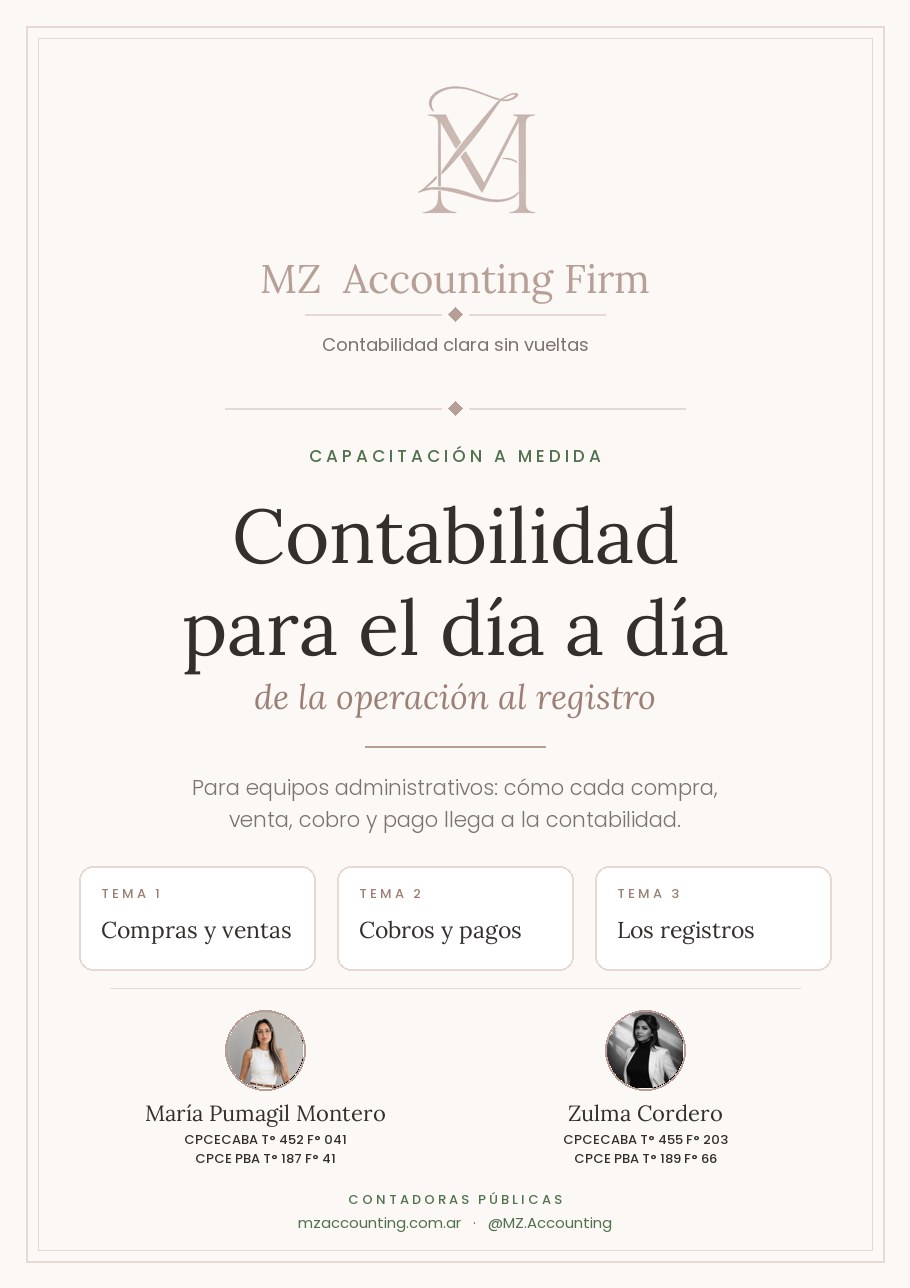
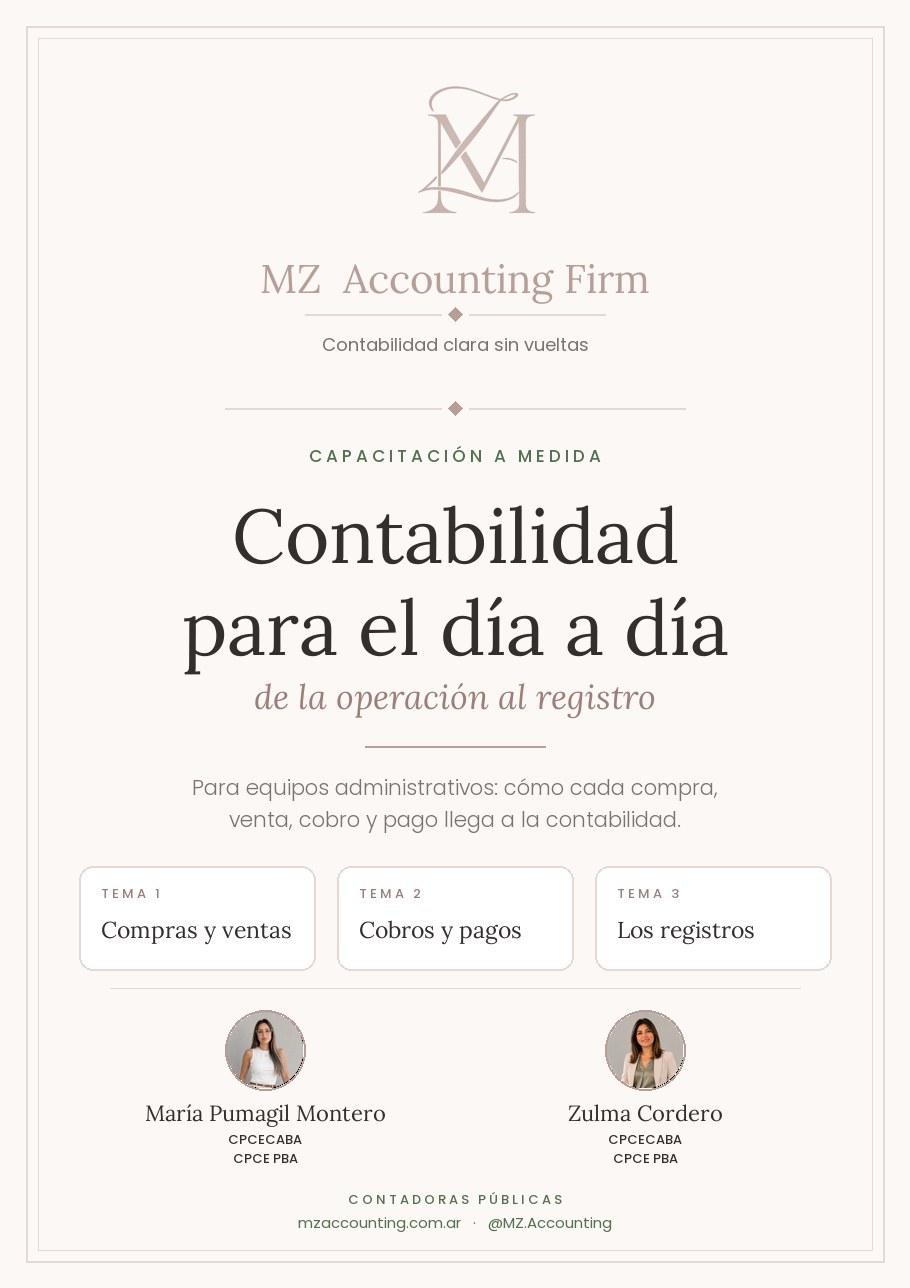
Sin números de matrícula y foto nueva de Zulma

Changed region(s): [[0.6154, 0.7764, 0.8, 0.9006], [0.2154, 0.8696, 0.3692, 0.9006]]

diff --git a/index.html b/index.html
@@ -47,7 +47,7 @@
 <main id="contenido">
 <section id="inicio" class="hero wrap">
   <div class="hero-copy"><p class="eyebrow">CONTADORAS PÚBLICAS · MATRICULADAS EN CABA Y PBA</p><h1>Contabilidad<br>e impuestos.<br><em class="rota">Para <span class="rota-palabra" data-palabras="monotributistas|freelancers|tiendas online|empresas">monotributistas</span>.</em></h1><p class="hero-benefit">Ordenamos tu situación fiscal para que no pagues de más.</p><div class="actions"><a class="button dark" href="https://wa.me/5491172377011?text=Hola%2C%20quiero%20hacer%20una%20consulta%20al%20estudio." target="_blank" rel="noopener noreferrer"><svg width="16" height="16" viewBox="0 0 24 24" fill="none" stroke="currentColor" stroke-width="1.8" stroke-linecap="round" stroke-linejoin="round" aria-hidden="true"><path d="M3.5 20.5l1.3-4.2A8.5 8.5 0 1 1 8 19.4z"/><path d="M9 9.5c.3 1.8 1.7 3.6 3.7 4.6l1.2-1.1 2 .9-.3 1.6c-3.4.4-7.6-3.3-7.9-6.9l1.6-.4.9 2z"/></svg> Escribinos por WhatsApp <span aria-hidden="true">↗</span></a><a class="text-link" href="#servicios">Conocé nuestros servicios <span aria-hidden="true">↗</span></a></div></div>
-  <div class="hero-visual"><div class="portrait-pair"><figure class="portrait maru"><img src="ed-maru.jpg" alt="María Pumagil Montero, contadora de MZ Accounting Firm" width="900" height="1200" fetchpriority="high"><figcaption><span>María Pumagil Montero</span><small>Análisis fiscal & negocios digitales</small><small class="matricula">CPCECABA T° 452 F° 041<br>CPCE PBA T° 187 F° 41</small></figcaption></figure><figure class="portrait zulma"><img src="ed-zulma.jpg" alt="Zulma Cordero, contadora de MZ Accounting Firm" width="900" height="1200" fetchpriority="high"><figcaption><span>Zulma Cordero</span><small>Contabilidad & formación</small><small class="matricula">CPCECABA T° 455 F° 203<br>CPCE PBA T° 189 F° 66</small></figcaption></figure></div></div>
+  <div class="hero-visual"><div class="portrait-pair"><figure class="portrait maru"><img src="ed-maru.jpg" alt="María Pumagil Montero, contadora de MZ Accounting Firm" width="900" height="1200" fetchpriority="high"><figcaption><span>María Pumagil Montero</span><small>Análisis fiscal & negocios digitales</small><small class="matricula">CPCECABA<br>CPCE PBA</small></figcaption></figure><figure class="portrait zulma"><img src="ed-zulma.jpg" alt="Zulma Cordero, contadora de MZ Accounting Firm" width="900" height="1200" fetchpriority="high"><figcaption><span>Zulma Cordero</span><small>Contabilidad & formación</small><small class="matricula">CPCECABA<br>CPCE PBA</small></figcaption></figure></div></div>
 </section>
 <div class="practice-strip wrap" aria-label="Áreas del estudio"><span>Impuestos</span><span>Contabilidad & balances</span><span>Auditorías</span><span>Formación</span></div>
 
@@ -175,8 +175,8 @@
 </section>
 
 <section id="agenda" class="advisors section"><div class="wrap"><div class="section-head"><div><p class="eyebrow">04 / ASESORÍAS</p><h2>Una reunión.<br><em>Tu situación, en contexto.</em></h2></div><p>Contanos qué necesitás resolver y coordiná una reunión con el estudio. Revisá los horarios y las condiciones directamente en nuestra agenda.</p></div><div class="advisor-grid">
-  <article class="advisor"><img src="ed-maru.jpg" alt="María Pumagil Montero" width="900" height="1200" loading="lazy"><div class="advisor-copy"><p class="eyebrow">CONTADORA PÚBLICA</p><h3>María Pumagil Montero</h3><p class="advisor-mat">CPCECABA T° 452 F° 041<br>CPCE PBA T° 187 F° 41</p><p class="advisor-specialty">Análisis de impuestos y negocios digitales.</p><p>Análisis de impuestos, ecommerce, Ganancias, Convenio Multilateral, auditorías e informes fiscales.</p></div></article>
-  <article class="advisor"><img src="ed-zulma.jpg" alt="Zulma Cordero" width="900" height="1200" loading="lazy"><div class="advisor-copy"><p class="eyebrow">CONTADORA PÚBLICA</p><h3>Zulma Cordero</h3><p class="advisor-mat">CPCECABA T° 455 F° 203<br>CPCE PBA T° 189 F° 66</p><p class="advisor-specialty">Contabilidad, balances y formación.</p><p>Balances, coaching, asesoramiento contable, auditorías administrativas y cursos.</p></div></article>
+  <article class="advisor"><img src="ed-maru.jpg" alt="María Pumagil Montero" width="900" height="1200" loading="lazy"><div class="advisor-copy"><p class="eyebrow">CONTADORA PÚBLICA</p><h3>María Pumagil Montero</h3><p class="advisor-mat">CPCECABA<br>CPCE PBA</p><p class="advisor-specialty">Análisis de impuestos y negocios digitales.</p><p>Análisis de impuestos, ecommerce, Ganancias, Convenio Multilateral, auditorías e informes fiscales.</p></div></article>
+  <article class="advisor"><img src="ed-zulma.jpg" alt="Zulma Cordero" width="900" height="1200" loading="lazy"><div class="advisor-copy"><p class="eyebrow">CONTADORA PÚBLICA</p><h3>Zulma Cordero</h3><p class="advisor-mat">CPCECABA<br>CPCE PBA</p><p class="advisor-specialty">Contabilidad, balances y formación.</p><p>Balances, coaching, asesoramiento contable, auditorías administrativas y cursos.</p></div></article>
   </div><div class="shared-booking"><div><p class="eyebrow">ASESORÍA ONLINE</p><p>Un mismo espacio para conversar con MZ.</p></div><a class="button dark" href="https://turnito.app/p/5445c8qkn2pt237j" target="_blank" rel="noopener noreferrer">Agenda con nosotras <span aria-hidden="true">↗</span></a></div></div></section>
 
 <section class="wrap section faq"><div><p class="eyebrow">ANTES DE ESCRIBIRNOS</p><h2>Algunas respuestas<br><em>para empezar.</em></h2></div><div><details><summary>¿Puedo contratar una consulta puntual?<span aria-hidden="true">+</span></summary><p>Sí. Podés reservar una asesoría para conversar sobre tu situación o escribirnos para consultar por un trabajo concreto. También podemos evaluar un acompañamiento continuo.</p></details><details><summary>¿Atienden fuera de Buenos Aires?<span aria-hidden="true">+</span></summary><p>La atención es online. Contanos dónde desarrollás tu actividad y qué necesitás para evaluar el alcance del servicio.</p></details><details><summary>¿Cómo consulto por una guía o un curso?<span aria-hidden="true">+</span></summary><p>Entrá a Cursos: cada curso tiene su página con el temario y el precio. Lo comprás con Mercado Pago y te llega al mail. Para las capacitaciones a medida, escribinos.</p></details><details><summary>¿Qué necesito para pedir un presupuesto?<span aria-hidden="true">+</span></summary><p>Contanos tu actividad y el tema que querés resolver. A partir de eso te indicamos qué información o documentación hace falta revisar.</p></details></div></section>

diff --git a/academy.html b/academy.html
@@ -485,8 +485,8 @@
       <h2 class="sec-h2" style="font-size:38px">Lo que explicamos en los cursos es lo que hacemos todos los días en el estudio.</h2>
     </div>
     <div class="row">
-      <div class="autora"><img src="maria.png" alt="María Pumagil Montero"><div><h3>María Pumagil Montero</h3><p>Contadora pública · Impuestos, monotributo y ecommerce</p><small>CPCECABA T° 452 F° 041 · CPCE PBA T° 187 F° 41</small></div></div>
-      <div class="autora"><img src="zulma.png" alt="Zulma Cordero"><div><h3>Zulma Cordero</h3><p>Contadora pública · Balances, auditoría y capacitación</p><small>CPCECABA T° 455 F° 203 · CPCE PBA T° 189 F° 66</small></div></div>
+      <div class="autora"><img src="maria.png" alt="María Pumagil Montero"><div><h3>María Pumagil Montero</h3><p>Contadora pública · Impuestos, monotributo y ecommerce</p><small>CPCECABA · CPCE PBA</small></div></div>
+      <div class="autora"><img src="zulma.png" alt="Zulma Cordero"><div><h3>Zulma Cordero</h3><p>Contadora pública · Balances, auditoría y capacitación</p><small>CPCECABA · CPCE PBA</small></div></div>
     </div>
   </div>
 </section>

diff --git a/curso-facturador.html b/curso-facturador.html
@@ -124,8 +124,8 @@
     <div class="para"><h3 style="font-size:24px">No es para vos si…</h3><ul><li>Le facturás a empresas u otros monotributistas: necesitás el curso Factura C.</li><li>Le facturás a un cliente del exterior: mirá el curso Factura E.</li><li>Necesitás que revisemos tu caso: reservá una clase.</li></ul></div>
     <div class="firmas">
       <span class="eyebrow" style="color:#D8C7C1">Lo hicieron</span>
-      <div><img src="maria.png" alt=""><p style="font-family:var(--serif);font-size:17px">María Pumagil Montero<small>CPCECABA T° 452 F° 041 · CPCE PBA T° 187 F° 41</small></p></div>
-      <div><img src="zulma.png" alt=""><p style="font-family:var(--serif);font-size:17px">Zulma Cordero<small>CPCECABA T° 455 F° 203 · CPCE PBA T° 189 F° 66</small></p></div>
+      <div><img src="maria.png" alt=""><p style="font-family:var(--serif);font-size:17px">María Pumagil Montero<small>CPCECABA · CPCE PBA</small></p></div>
+      <div><img src="zulma.png" alt=""><p style="font-family:var(--serif);font-size:17px">Zulma Cordero<small>CPCECABA · CPCE PBA</small></p></div>
     </div>
   </div>
 </section>

diff --git a/curso-notas-c.html b/curso-notas-c.html
@@ -124,8 +124,8 @@
     <div class="para"><h3 style="font-size:24px">No es para vos si…</h3><ul><li>Todavía no emitiste tu primera factura: empezá por el curso Factura C.</li><li>Tenés que corregir una Factura E: mirá Notas de crédito y débito E.</li><li>Necesitás que revisemos tu caso: reservá una clase.</li></ul></div>
     <div class="firmas">
       <span class="eyebrow" style="color:#D8C7C1">Lo hicieron</span>
-      <div><img src="maria.png" alt=""><p style="font-family:var(--serif);font-size:17px">María Pumagil Montero<small>CPCECABA T° 452 F° 041 · CPCE PBA T° 187 F° 41</small></p></div>
-      <div><img src="zulma.png" alt=""><p style="font-family:var(--serif);font-size:17px">Zulma Cordero<small>CPCECABA T° 455 F° 203 · CPCE PBA T° 189 F° 66</small></p></div>
+      <div><img src="maria.png" alt=""><p style="font-family:var(--serif);font-size:17px">María Pumagil Montero<small>CPCECABA · CPCE PBA</small></p></div>
+      <div><img src="zulma.png" alt=""><p style="font-family:var(--serif);font-size:17px">Zulma Cordero<small>CPCECABA · CPCE PBA</small></p></div>
     </div>
   </div>
 </section>

diff --git a/curso-notas-e.html b/curso-notas-e.html
@@ -124,8 +124,8 @@
     <div class="para"><h3 style="font-size:24px">No es para vos si…</h3><ul><li>Todavía no emitiste tu primera Factura E: empezá por ese curso.</li><li>Tenés que corregir una Factura C: mirá Notas de crédito y débito C.</li><li>Necesitás que revisemos tu caso: reservá una clase.</li></ul></div>
     <div class="firmas">
       <span class="eyebrow" style="color:#D8C7C1">Lo hicieron</span>
-      <div><img src="maria.png" alt=""><p style="font-family:var(--serif);font-size:17px">María Pumagil Montero<small>CPCECABA T° 452 F° 041 · CPCE PBA T° 187 F° 41</small></p></div>
-      <div><img src="zulma.png" alt=""><p style="font-family:var(--serif);font-size:17px">Zulma Cordero<small>CPCECABA T° 455 F° 203 · CPCE PBA T° 189 F° 66</small></p></div>
+      <div><img src="maria.png" alt=""><p style="font-family:var(--serif);font-size:17px">María Pumagil Montero<small>CPCECABA · CPCE PBA</small></p></div>
+      <div><img src="zulma.png" alt=""><p style="font-family:var(--serif);font-size:17px">Zulma Cordero<small>CPCECABA · CPCE PBA</small></p></div>
     </div>
   </div>
 </section>

diff --git a/curso-factura-c.html b/curso-factura-c.html
@@ -124,8 +124,8 @@
     <div class="para"><h3 style="font-size:24px">No es para vos si…</h3><ul><li>Sos responsable inscripto: emitís facturas A o B.</li><li>Le facturás a un cliente del exterior: mirá el curso Factura E.</li><li>Necesitás que revisemos tu caso: reservá una clase.</li></ul></div>
     <div class="firmas">
       <span class="eyebrow" style="color:#D8C7C1">Lo hicieron</span>
-      <div><img src="maria.png" alt=""><p style="font-family:var(--serif);font-size:17px">María Pumagil Montero<small>CPCECABA T° 452 F° 041 · CPCE PBA T° 187 F° 41</small></p></div>
-      <div><img src="zulma.png" alt=""><p style="font-family:var(--serif);font-size:17px">Zulma Cordero<small>CPCECABA T° 455 F° 203 · CPCE PBA T° 189 F° 66</small></p></div>
+      <div><img src="maria.png" alt=""><p style="font-family:var(--serif);font-size:17px">María Pumagil Montero<small>CPCECABA · CPCE PBA</small></p></div>
+      <div><img src="zulma.png" alt=""><p style="font-family:var(--serif);font-size:17px">Zulma Cordero<small>CPCECABA · CPCE PBA</small></p></div>
     </div>
   </div>
 </section>

diff --git a/curso-factura-e.html b/curso-factura-e.html
@@ -124,8 +124,8 @@
     <div class="para"><h3 style="font-size:24px">No es para vos si…</h3><ul><li>Exportás bienes: este curso es de servicios.</li><li>Tus clientes están en el país: empezá por el curso Factura C.</li><li>Necesitás que revisemos tu caso: reservá una clase.</li></ul></div>
     <div class="firmas">
       <span class="eyebrow" style="color:#D8C7C1">Lo hicieron</span>
-      <div><img src="maria.png" alt=""><p style="font-family:var(--serif);font-size:17px">María Pumagil Montero<small>CPCECABA T° 452 F° 041 · CPCE PBA T° 187 F° 41</small></p></div>
-      <div><img src="zulma.png" alt=""><p style="font-family:var(--serif);font-size:17px">Zulma Cordero<small>CPCECABA T° 455 F° 203 · CPCE PBA T° 189 F° 66</small></p></div>
+      <div><img src="maria.png" alt=""><p style="font-family:var(--serif);font-size:17px">María Pumagil Montero<small>CPCECABA · CPCE PBA</small></p></div>
+      <div><img src="zulma.png" alt=""><p style="font-family:var(--serif);font-size:17px">Zulma Cordero<small>CPCECABA · CPCE PBA</small></p></div>
     </div>
   </div>
 </section>

diff --git a/curso-cuit-pais.html b/curso-cuit-pais.html
@@ -124,8 +124,8 @@
     <div class="para"><h3 style="font-size:24px">No es para vos si…</h3><ul><li>Nunca emitiste una Factura E: empezá por ese curso, que es el principal.</li><li>Tus clientes están en el país.</li><li>Necesitás que revisemos tu caso: reservá una clase.</li></ul></div>
     <div class="firmas">
       <span class="eyebrow" style="color:#D8C7C1">Lo hicieron</span>
-      <div><img src="maria.png" alt=""><p style="font-family:var(--serif);font-size:17px">María Pumagil Montero<small>CPCECABA T° 452 F° 041 · CPCE PBA T° 187 F° 41</small></p></div>
-      <div><img src="zulma.png" alt=""><p style="font-family:var(--serif);font-size:17px">Zulma Cordero<small>CPCECABA T° 455 F° 203 · CPCE PBA T° 189 F° 66</small></p></div>
+      <div><img src="maria.png" alt=""><p style="font-family:var(--serif);font-size:17px">María Pumagil Montero<small>CPCECABA · CPCE PBA</small></p></div>
+      <div><img src="zulma.png" alt=""><p style="font-family:var(--serif);font-size:17px">Zulma Cordero<small>CPCECABA · CPCE PBA</small></p></div>
     </div>
   </div>
 </section>
